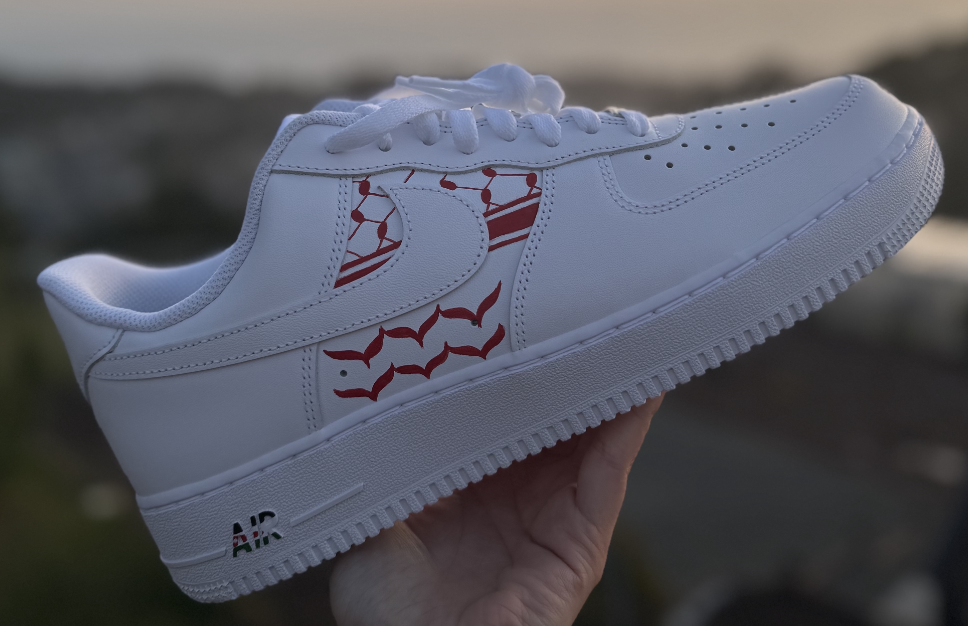
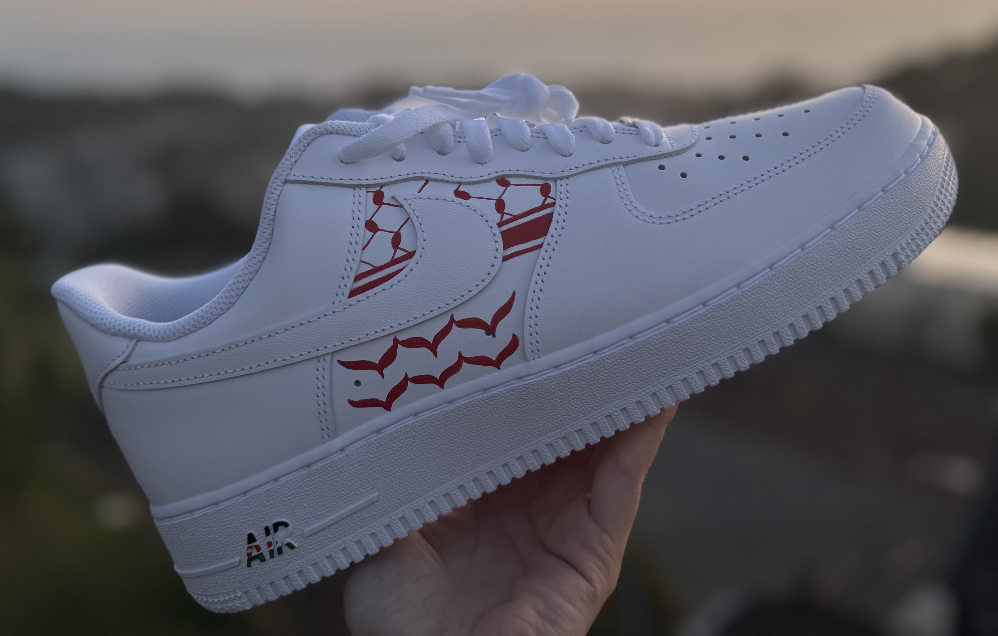
feat: update featured-work slideshow with 2 Kuffiyeh AF1 images
Use side and heel views in slideshow with arrow navigation and smooth transitions.

#VERCEL_SKIP

diff --git a/components/featured-work.tsx b/components/featured-work.tsx
@@ -6,10 +6,6 @@ import { ChevronLeft, ChevronRight } from "lucide-react"
 
 const slideImages = [
   {
-    src: "/images/kuffiyeh-side-sunset.png",
-    alt: "Red Kuffiyeh AF1 - Side view at sunset",
-  },
-  {
     src: "/images/kuffiyeh-side-detail.png",
     alt: "Red Kuffiyeh AF1 - Detailed side view",
   },
